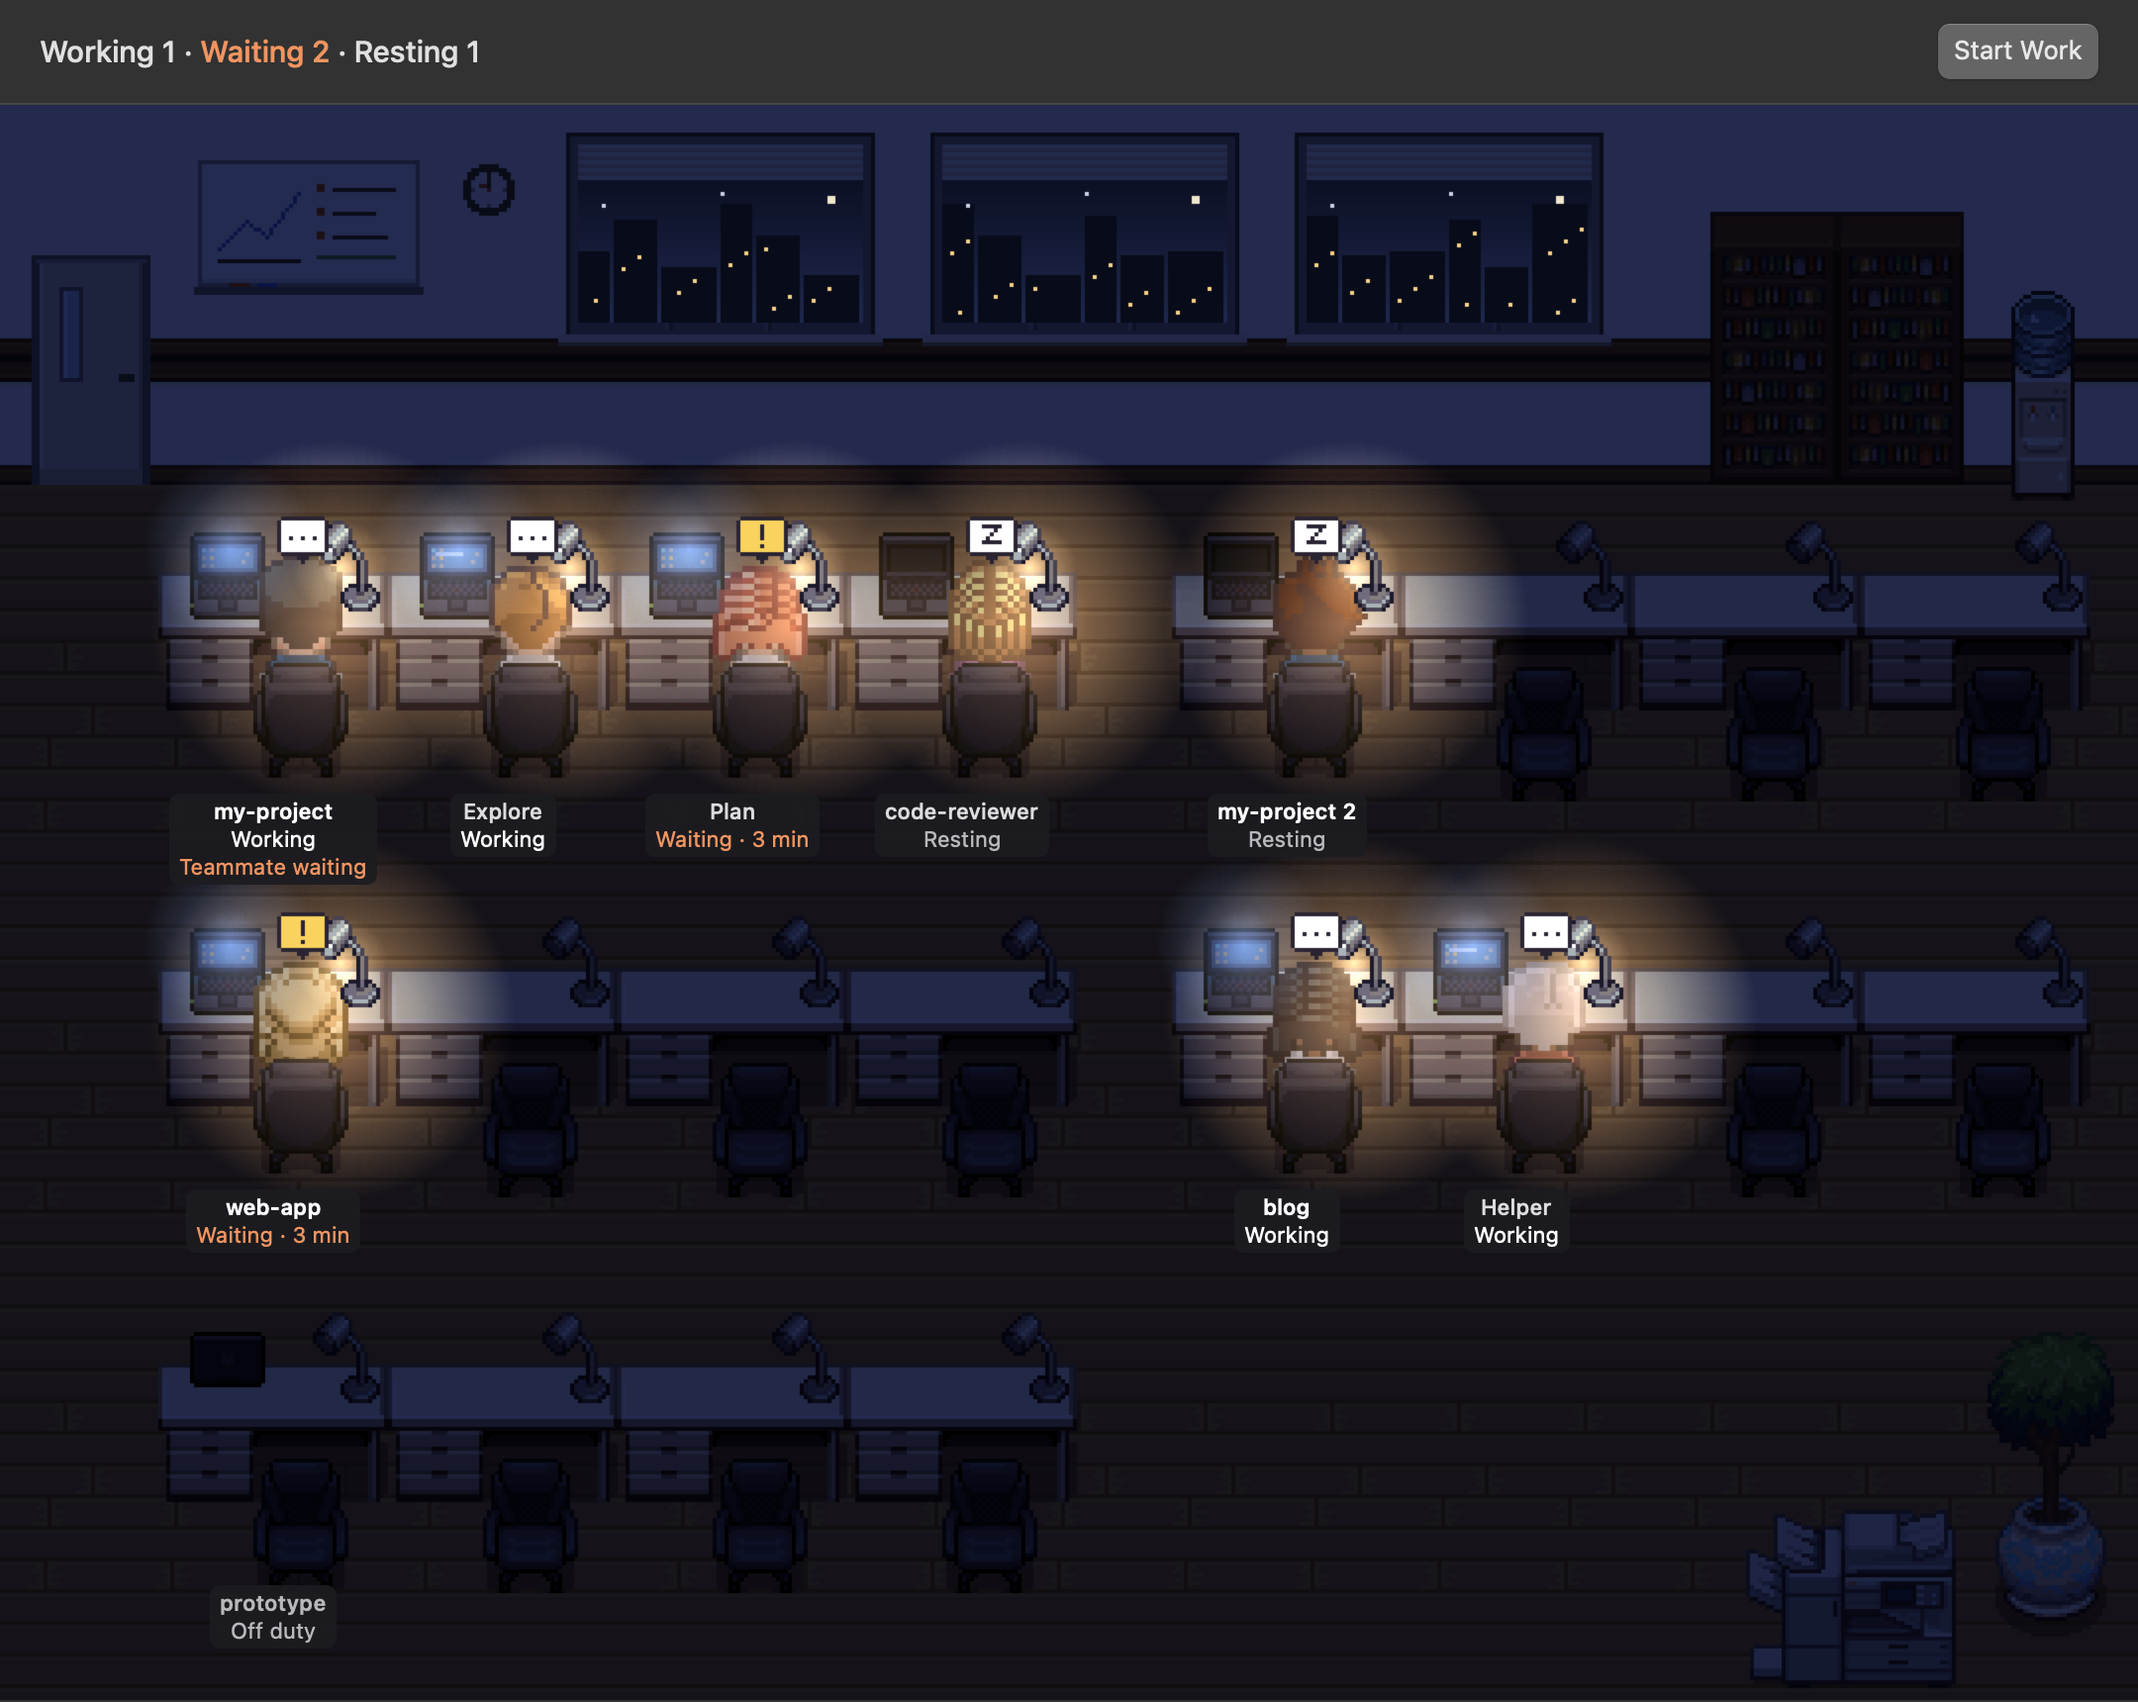
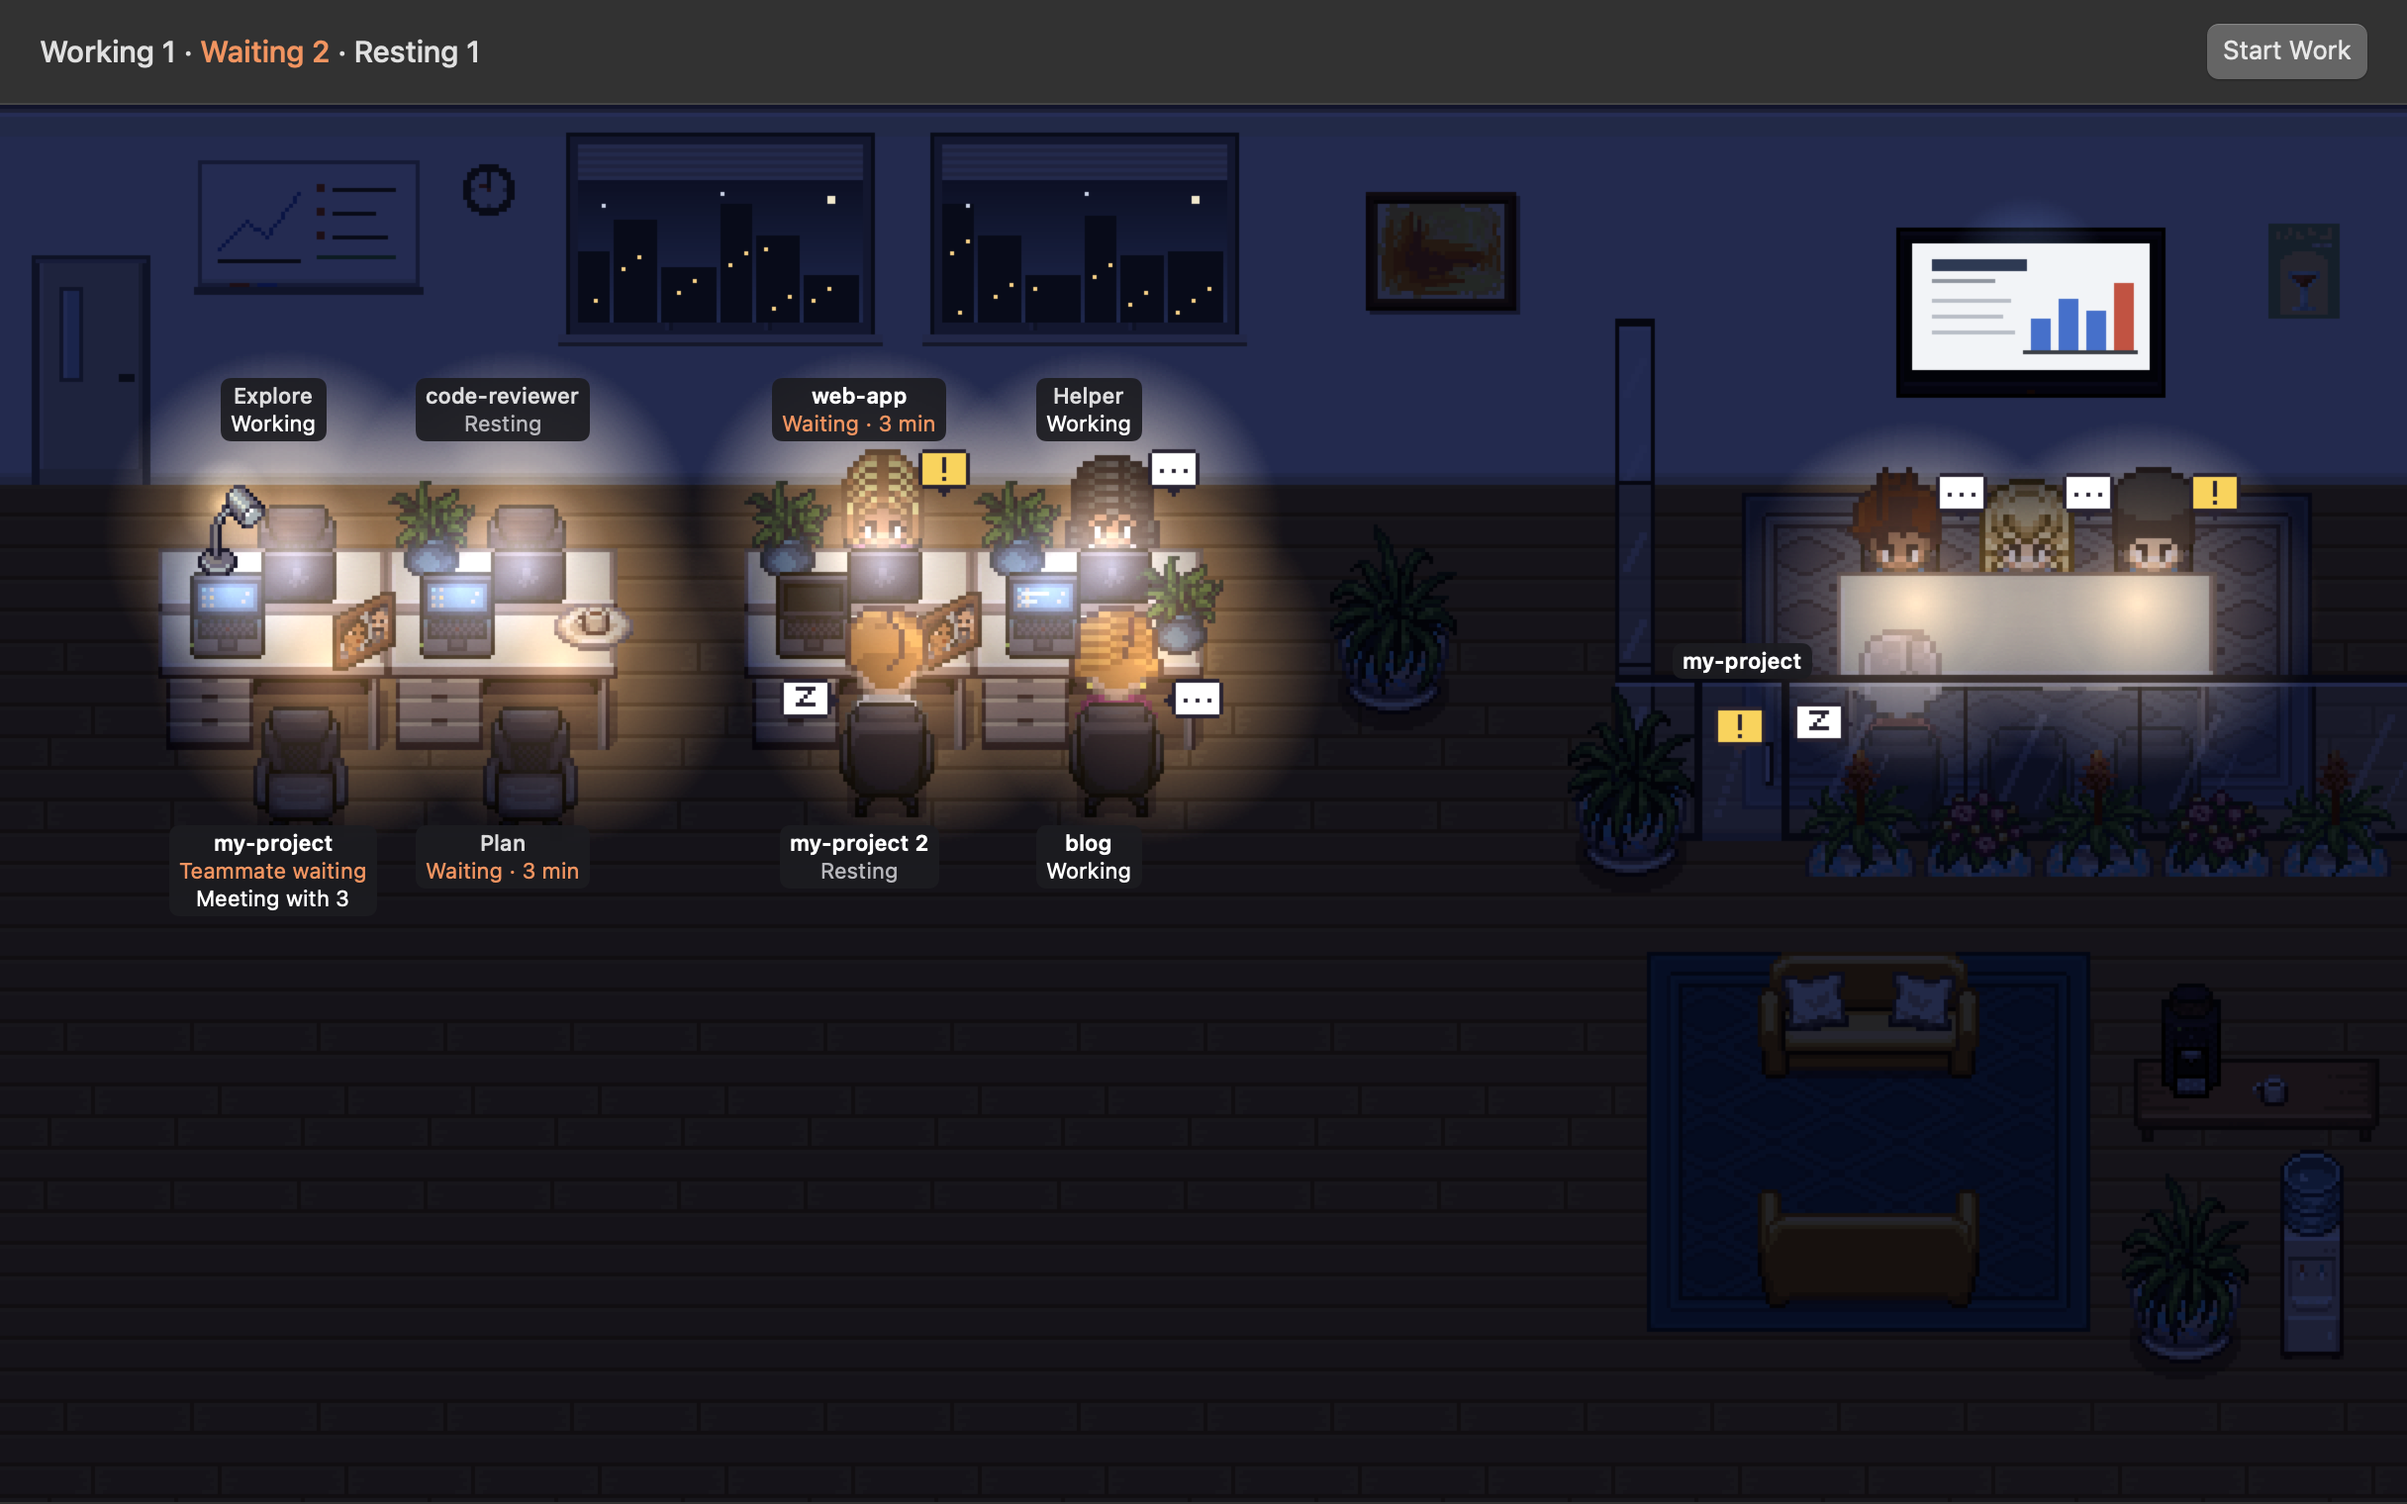
docs: README 두 파일에 v0.3 (섬·걸음·회의·옆 창·별명, 개인정보 문장, 회의 그림)
How it works 2·4 는 도구 종류 판정의 최종 문장 그대로, 디스크 줄은 별명을 더한 문장으로.

diff --git a/AppTests/CaptureTests.swift b/AppTests/CaptureTests.swift
@@ -426,15 +426,18 @@ final class CaptureTests: XCTestCase {
         }
     }
 
-    /// The README picture (copied by hand to docs/images/): the window a little taller than the default so the
-    /// off-duty prototype desk shows too, and the helper already seated, so no name tag stands under an empty
-    /// chair. Light by day, dark by night.
+    /// The README picture (copied by hand to docs/images/): the example office in the default window, my-project
+    /// meeting its three teammates (Plan waiting for an answer at the table), the others at their islands. Light
+    /// by day, dark by night.
     func testCaptureReadme() throws {
         for (time, hour) in [("day", 14), ("night", 22)] {
-            let (model, stage) = scenario(at: today(hour), still: true)
+            let model = makeModel(connected: true)
+            for event in FakeScenario.events { model.receive(event, at: today(hour) - 200) }
+            model.advanceMeetings(to: today(hour))
+            XCTAssertEqual(model.office.meeting?.members.count, 3)
             try capture(
-                "readme-\(time)", size: CGSize(width: OfficeView.defaultSize.width, height: 860),
-                OfficeView(fixedNow: today(hour), stage: stage).environmentObject(model))
+                "readme-\(time)", size: OfficeView.defaultSize,
+                OfficeView(fixedNow: today(hour)).environmentObject(model))
         }
     }
 

diff --git a/README.md b/README.md
@@ -8,7 +8,7 @@ Works with Claude Code. Not affiliated with Anthropic.
 
 <picture>
   <source media="(prefers-color-scheme: dark)" srcset="docs/images/office-dark.png">
-  <img alt="The office window: each session sits at its own row of desks, with its subagents beside it" src="docs/images/office-light.png">
+  <img alt="The office window: sessions and their subagents at islands of four desks, one session meeting its subagents in the glass meeting room, and a lounge" src="docs/images/office-light.png">
 </picture>
 
 | State | What it means | What you see |
@@ -16,10 +16,11 @@ Works with Claude Code. Not affiliated with Anthropic.
 | Working | Producing an answer | Sitting at the desk, laptop on, `…` bubble |
 | Waiting · n min | Needs your permission or answer | Still sitting, a `!` bubble hopping over the head |
 | Resting | Done, waiting for your next instruction | Nodding off in the chair, `z` bubble |
-| Off duty | The session ended | Walks out the door, leaving an empty desk and a dimmed name tag |
+| Off duty | The session ended | Walks out the door; while others still work at that island, its seat keeps a dimmed name tag |
 
-- Each session gets a row of four desks named after its folder. A second session in the same folder gets the next row, "name 2".
-- Subagents walk in and sit beside the session that called them. From the fourth one on, the name tag shows "+n".
+- People sit at islands of four facing desks, nearest the door first, only while they work. A session's name tag is its folder's name; a second session in the same folder is "name 2".
+- Subagents walk in and sit at the island of whoever called them. The caller walks over to hand out the work, and a subagent that finishes walks over to report before it leaves. When a session hands work to two or more subagents and waits, they meet in the glass meeting room.
+- Click a character or its name tag for a side panel: the state and for how long, the kind of tool in use, the subagents. ✏ there gives a nickname, kept on this Mac.
 - The menu bar icon turns into `! 2` while sessions wait for you. Everything stays on this Mac.
 
 ## Start here
@@ -90,12 +91,13 @@ From each project's README, November 2026. If something here is wrong, please op
 ## How it works
 
 1. The plugin adds hooks for nine Claude Code events (`SessionStart`, `UserPromptSubmit`, `PreToolUse`, `PermissionRequest`, `Notification`, `Stop`, `SubagentStart`, `SubagentStop`, `SessionEnd`; see [`plugin/hooks/hooks.json`](plugin/hooks/hooks.json)). Each one runs a small helper inside the app, `agent-overtime-hook`.
-2. The helper keeps eight values: event name, session id, folder path, subagent id, subagent type, notification type, whether the tool is AskUserQuestion, and the Claude Code process id. Everything else Claude Code passes (tool names and input, prompts, file contents, the transcript path, notifications the app doesn't use) is dropped right after parsing; it is never stored or sent, and the transcript file is never opened.
+2. The helper keeps only: event name, session id, folder path, subagent id and name, notification type, whether the tool is AskUserQuestion or SendMessage, the recipient of a SendMessage (its `to` field only), a tool kind (one of: reading, editing, command, search/web, teammates, other), and the Claude Code process id. Tool names, the message itself and all other tool input, prompts, file contents and transcripts are dropped right after parsing; they are never stored or sent. The recipient is only matched against teammates already at a desk, then dropped; it is never saved or shown. The tool kind is worked out inside the helper from a fixed list of Claude Code's built-in tools. MCP tools and any tool it does not know count as "other", so MCP server names never leave the helper. The app keeps only the latest kind and when it arrived, in memory. The transcript file is never opened.
 3. The helper hands the values to the app over a unix socket only your user can open (folder 0700, file 0600). It prints nothing and always exits within 0.5 s.
-4. The app only changes the picture. Nothing in an event is ever run, and the screen shows states and names only, never tool names, commands or file paths.
+4. The app only changes the picture, and nothing in an event is ever run. The screen shows states and a coarse tool kind (for example "Editing files") only, never tool names, commands or file paths.
 
+- Meetings are a picture of a session handing out work: when it has two or more subagents out and does nothing of its own for 10 seconds, they meet in the meeting room. The app never knows what anyone says, so speech bubbles stay empty.
 - Network: none. No ports, no update checks, no analytics, no crash reports.
-- On disk: `~/Library/Application Support/AgentOvertime/config.json` (0600) with remembered desks (folder paths) and your start command, plus the app's preferences (whether it has connected, and the fingerprint of the start command you approved). Clear desks in Settings > Desks.
+- On disk: `~/Library/Application Support/AgentOvertime/config.json` (0600) with recent folders (folder paths), your start command, and the nicknames you give sessions (by folder path) and teammates (by name), plus the app's preferences (whether it has connected, and the fingerprint of the start command you approved). Nicknames stay on this Mac: they never go to the hook helper, a log or a notification. Clear them in Settings > Nicknames, and recent folders in Settings > Recent Folders.
 
 ## Verify the download
 
@@ -146,7 +148,7 @@ Move `build/Build/Products/Release/AgentOvertime.app` into **Applications** (or 
 
 ## Roadmap
 
-- Click a character to jump to that session's terminal
+- Jump from a character's side panel to that session's terminal
 - A small always-on-top window
 - Other agents such as Codex, once enough people ask in issues
 
